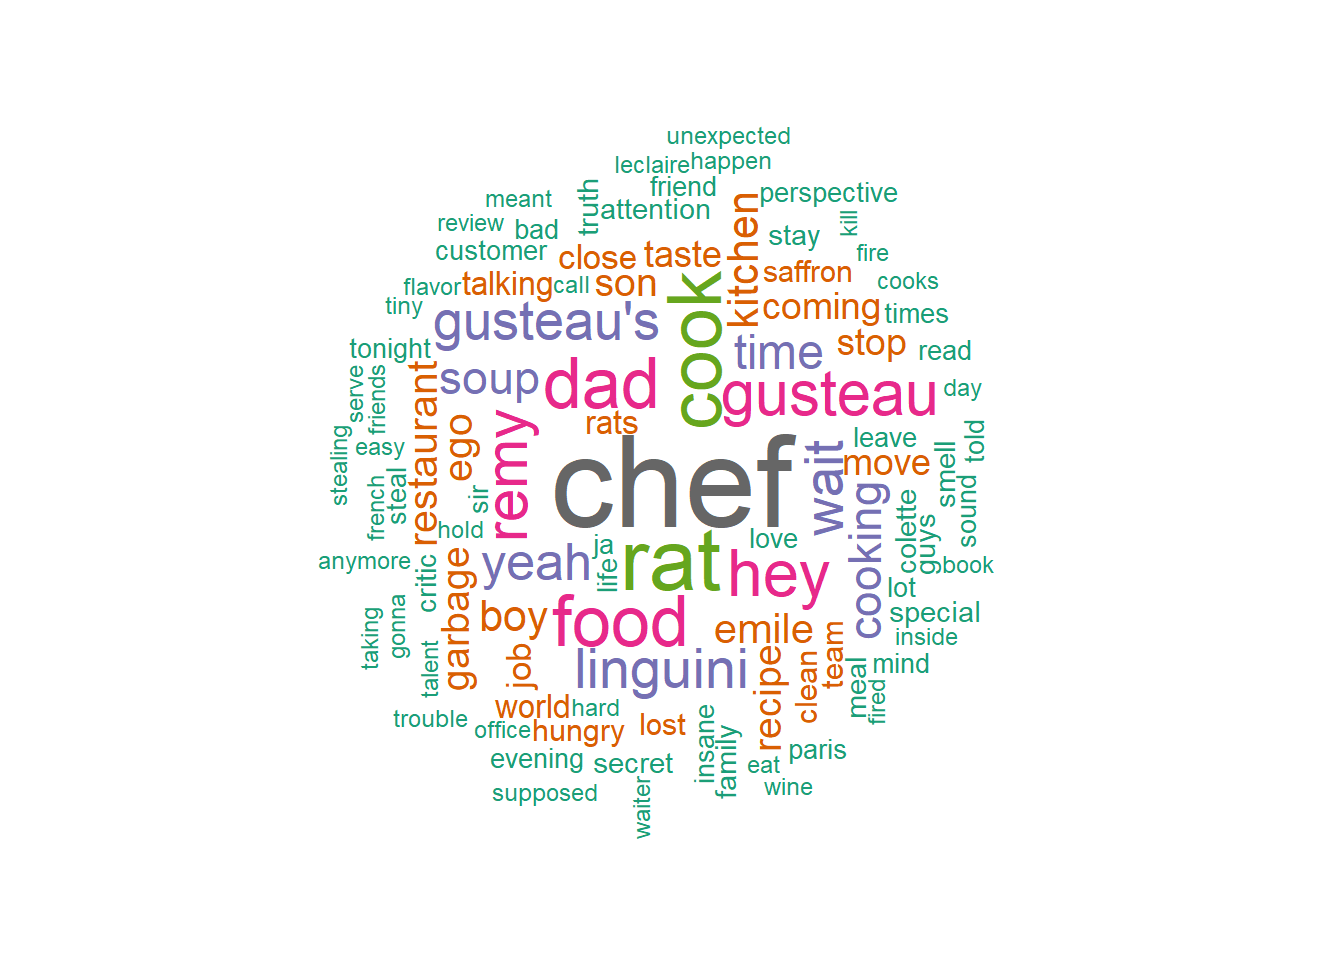
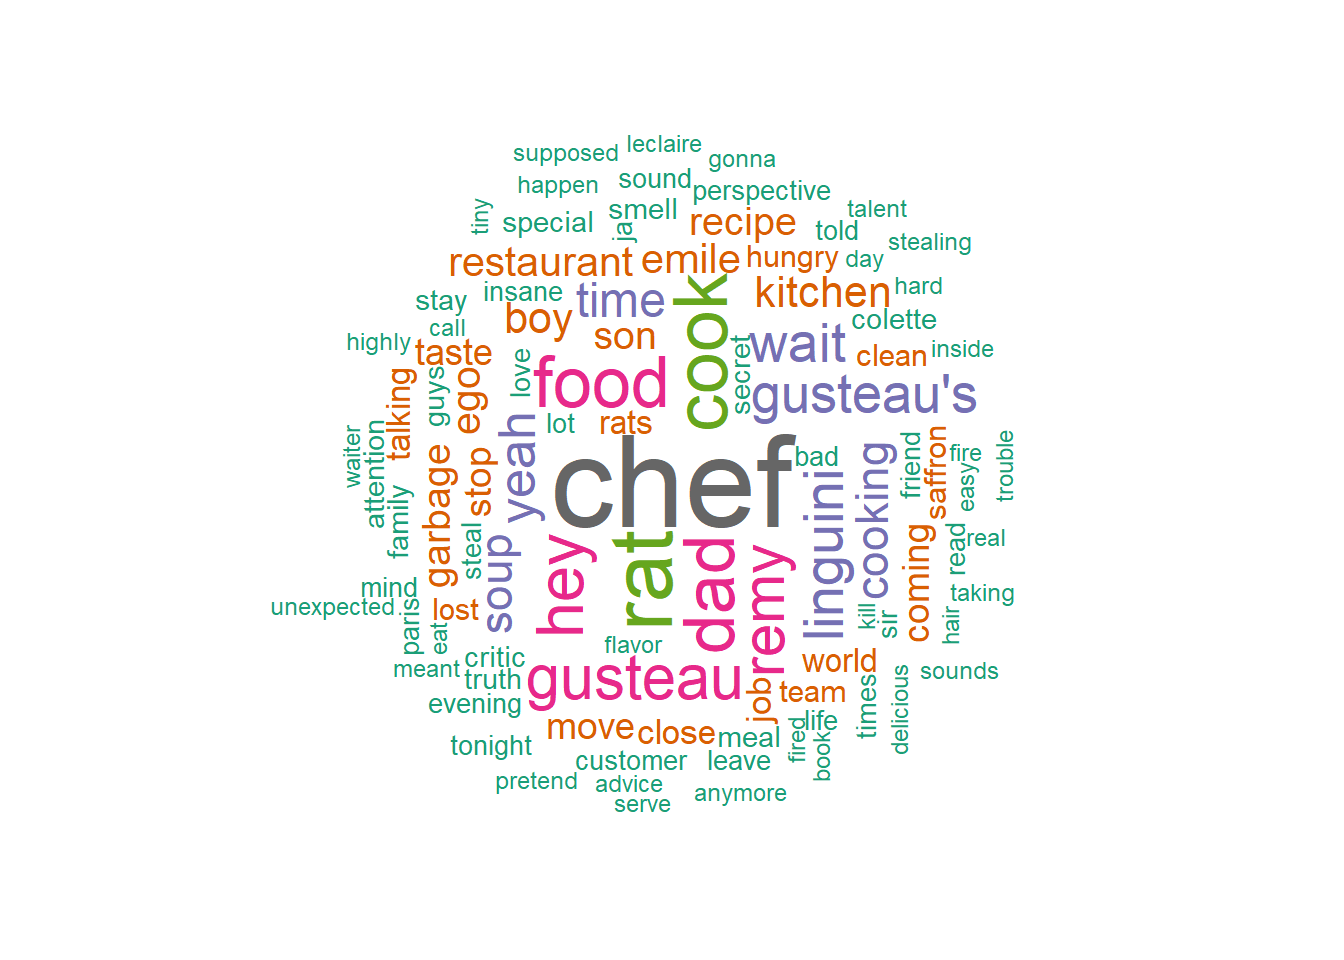
RATATOUILLE

Changed region(s): [[0.1875, 0.125, 0.75, 0.875]]

diff --git a/docs/RATATOUILLE.html b/docs/RATATOUILLE.html
@@ -239,23 +239,17 @@ pre > code.sourceCode > span > a:first-child::before { text-decoration: underlin
 <span id="cb1-2"><a href="#cb1-2" aria-hidden="true" tabindex="-1"></a>  <span class="at">word =</span> <span class="fu">gsub</span>(<span class="st">"([[:punct:]])(?=[^[:alnum:]]*$)"</span>, <span class="st">""</span>, word, <span class="at">perl =</span> <span class="cn">TRUE</span>))<span class="sc">|&gt;</span></span>
 <span id="cb1-3"><a href="#cb1-3" aria-hidden="true" tabindex="-1"></a>  <span class="fu">count</span>(word, <span class="at">sort=</span><span class="cn">TRUE</span>)<span class="sc">|&gt;</span></span>
 <span id="cb1-4"><a href="#cb1-4" aria-hidden="true" tabindex="-1"></a>  <span class="fu">anti_join</span>(stop_words)<span class="sc">|&gt;</span></span>
-<span id="cb1-5"><a href="#cb1-5" aria-hidden="true" tabindex="-1"></a>  <span class="fu">slice</span>(<span class="dv">2</span><span class="sc">:</span><span class="dv">999</span>)<span class="sc">|&gt;</span></span>
-<span id="cb1-6"><a href="#cb1-6" aria-hidden="true" tabindex="-1"></a>  <span class="fu">mutate</span>(<span class="at">id =</span> <span class="dv">1</span><span class="sc">:</span><span class="dv">998</span>)</span></code><button title="Copy to Clipboard" class="code-copy-button"><i class="bi"></i></button></pre></div>
+<span id="cb1-5"><a href="#cb1-5" aria-hidden="true" tabindex="-1"></a>  <span class="fu">slice</span>(<span class="dv">2</span><span class="sc">:</span><span class="dv">100</span>)<span class="sc">|&gt;</span></span>
+<span id="cb1-6"><a href="#cb1-6" aria-hidden="true" tabindex="-1"></a>  <span class="fu">mutate</span>(<span class="at">id =</span> <span class="dv">1</span><span class="sc">:</span><span class="dv">99</span>)</span></code><button title="Copy to Clipboard" class="code-copy-button"><i class="bi"></i></button></pre></div>
 <div class="cell-output cell-output-stderr">
 <pre><code>Joining with `by = join_by(word)`</code></pre>
 </div>
 </div>
 <div class="cell">
 <div class="sourceCode cell-code" id="cb3"><pre class="sourceCode r code-with-copy"><code class="sourceCode r"><span id="cb3-1"><a href="#cb3-1" aria-hidden="true" tabindex="-1"></a><span class="fu">ggplot</span>(plot_rat, <span class="fu">aes</span>(<span class="at">x =</span> id, <span class="at">fill =</span> word)) <span class="sc">+</span></span>
-<span id="cb3-2"><a href="#cb3-2" aria-hidden="true" tabindex="-1"></a>  <span class="fu">geom_histogram</span>() <span class="sc">+</span></span>
-<span id="cb3-3"><a href="#cb3-3" aria-hidden="true" tabindex="-1"></a>  <span class="fu">labs</span>(<span class="at">title =</span> <span class="st">"Temporal Analysis of Word Occurrences in Ratatouille"</span>,</span>
-<span id="cb3-4"><a href="#cb3-4" aria-hidden="true" tabindex="-1"></a>       <span class="at">x =</span> <span class="st">"Word Occurrence ID"</span>,</span>
-<span id="cb3-5"><a href="#cb3-5" aria-hidden="true" tabindex="-1"></a>       <span class="at">y =</span> <span class="st">"Frequency"</span>,</span>
-<span id="cb3-6"><a href="#cb3-6" aria-hidden="true" tabindex="-1"></a>       <span class="at">fill =</span> <span class="st">"Word"</span>) <span class="sc">+</span></span>
-<span id="cb3-7"><a href="#cb3-7" aria-hidden="true" tabindex="-1"></a>  <span class="fu">theme_minimal</span>()</span></code><button title="Copy to Clipboard" class="code-copy-button"><i class="bi"></i></button></pre></div>
-<div class="cell-output cell-output-stderr">
-<pre><code>`stat_bin()` using `bins = 30`. Pick better value with `binwidth`.</code></pre>
-</div>
+<span id="cb3-2"><a href="#cb3-2" aria-hidden="true" tabindex="-1"></a>  <span class="fu">geom_bar</span>() <span class="sc">+</span></span>
+<span id="cb3-3"><a href="#cb3-3" aria-hidden="true" tabindex="-1"></a>  <span class="fu">labs</span>(<span class="at">fill =</span> <span class="st">"Word"</span>) <span class="sc">+</span></span>
+<span id="cb3-4"><a href="#cb3-4" aria-hidden="true" tabindex="-1"></a>  <span class="fu">theme_minimal</span>()</span></code><button title="Copy to Clipboard" class="code-copy-button"><i class="bi"></i></button></pre></div>
 <div class="cell-output-display">
 <p><img src="RATATOUILLE_files/figure-html/unnamed-chunk-7-1.png" class="img-fluid" width="672"></p>
 </div>
